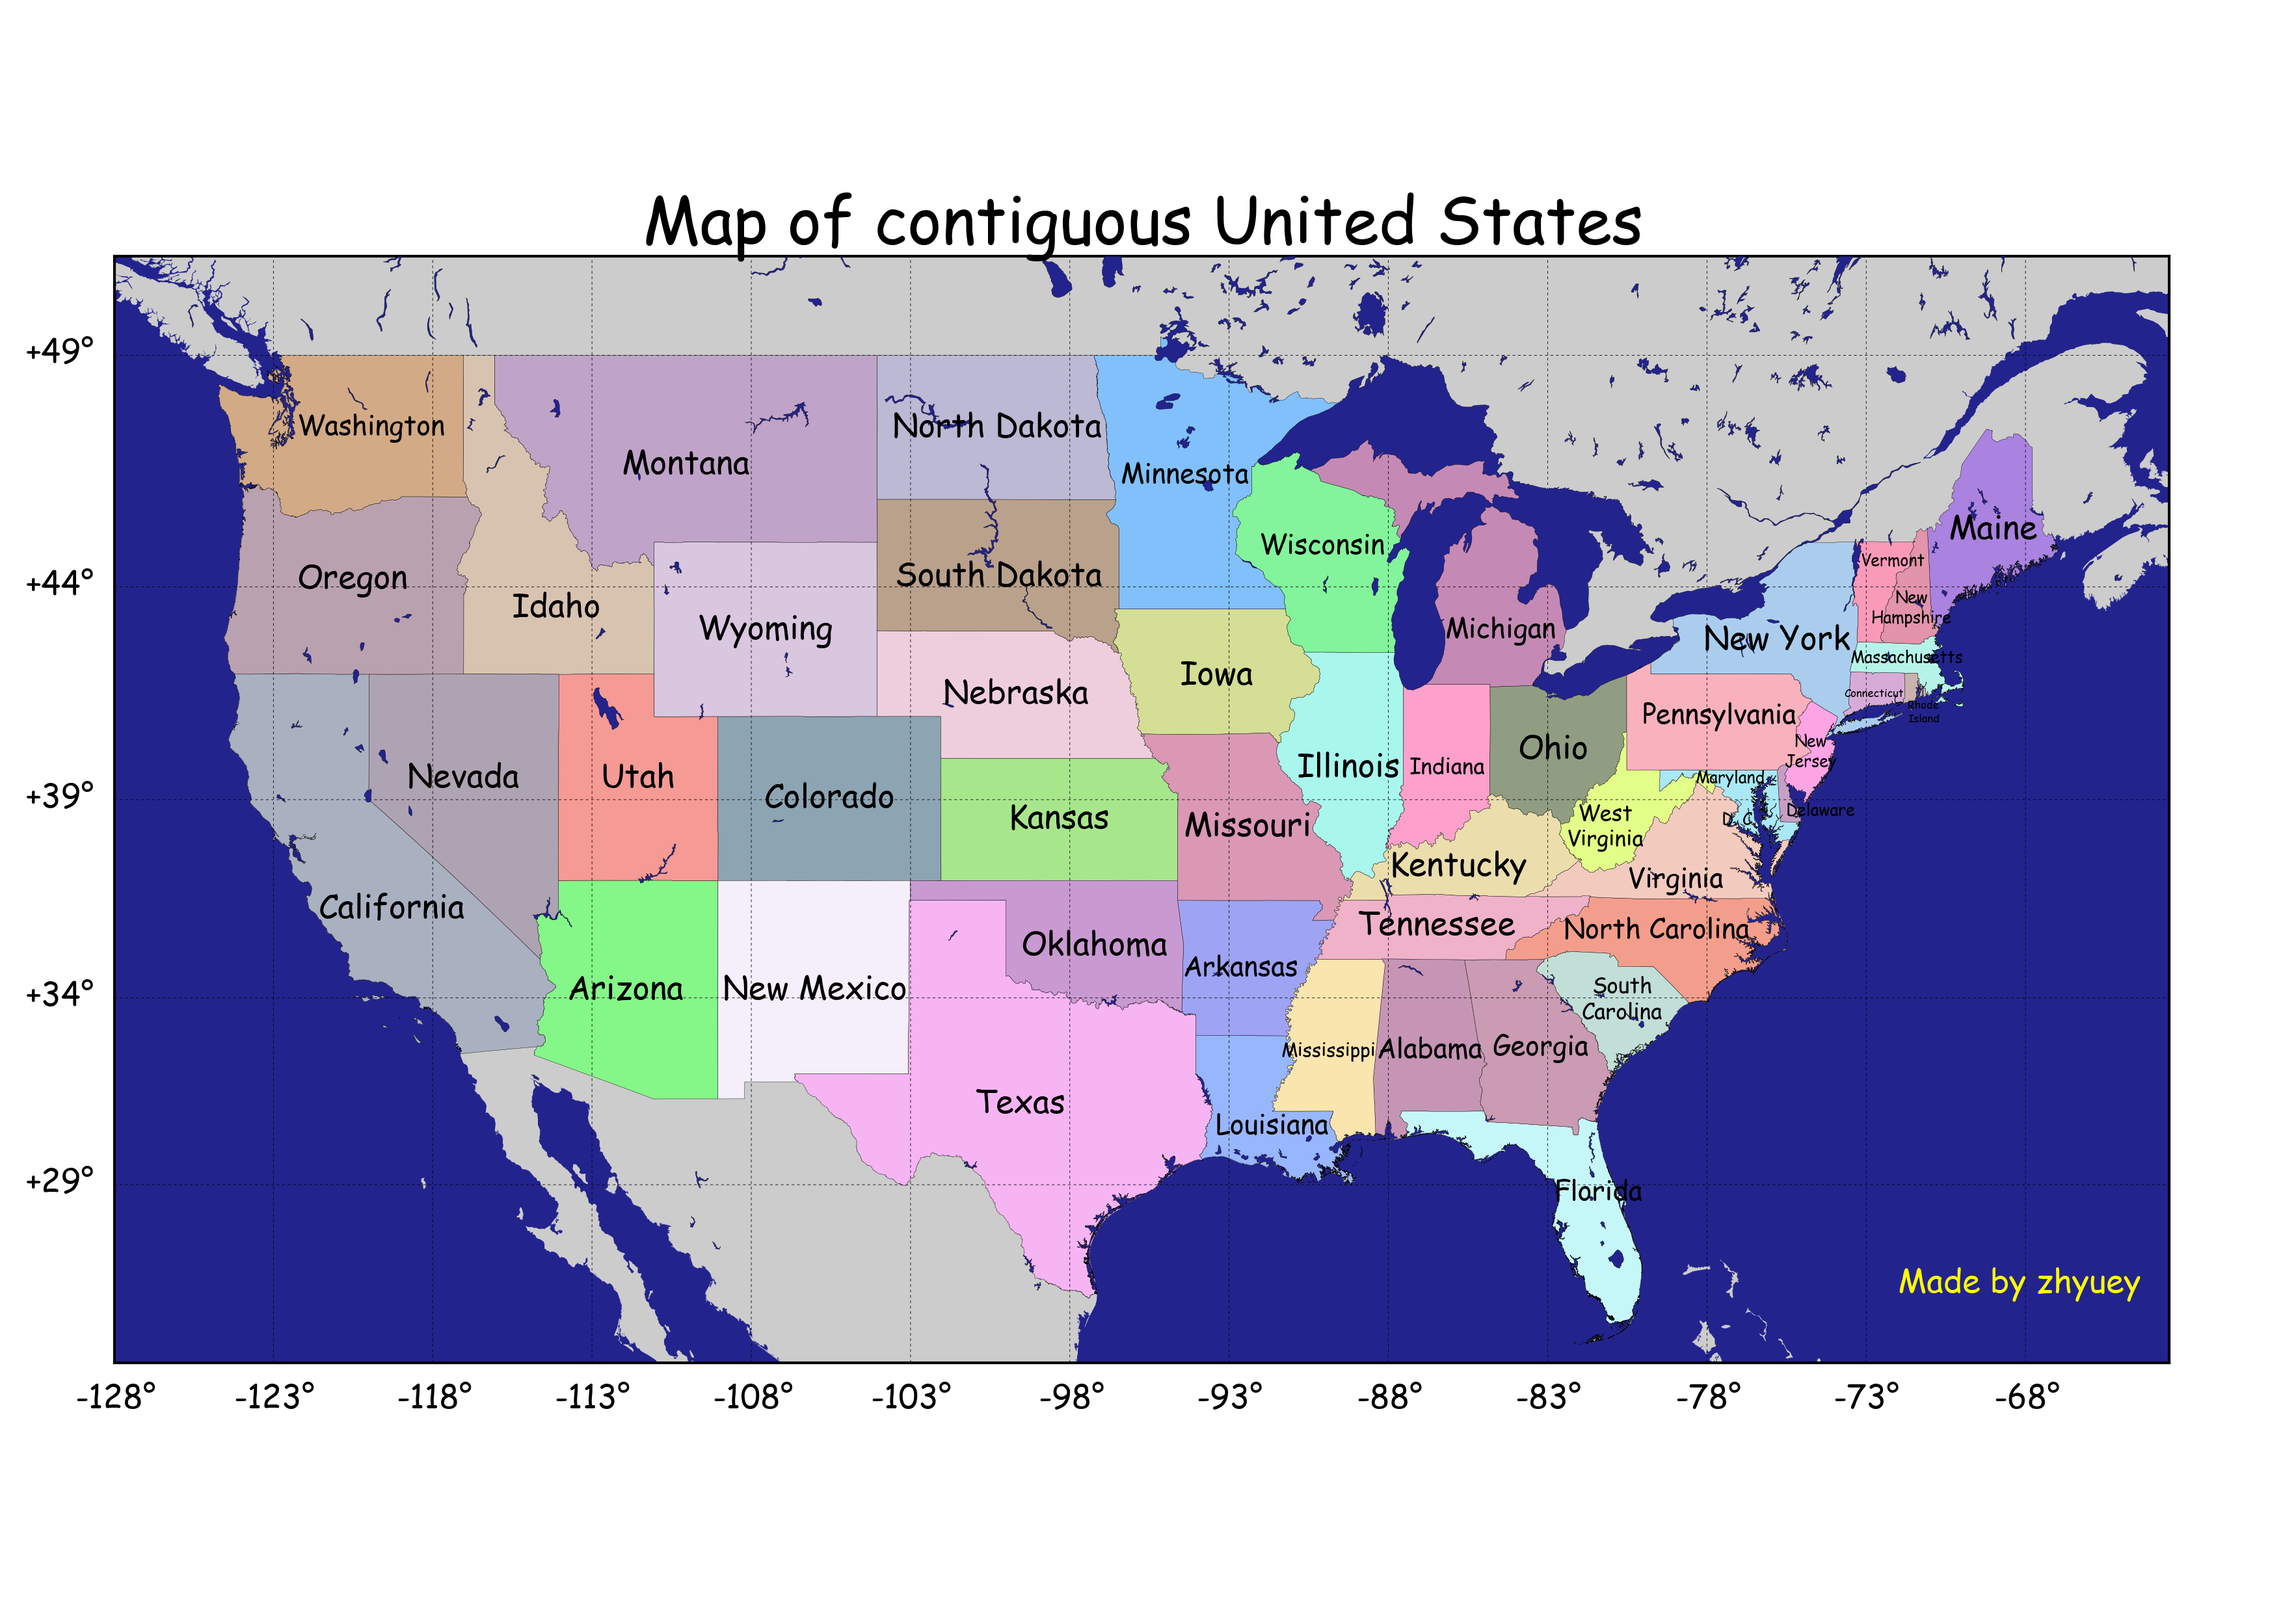
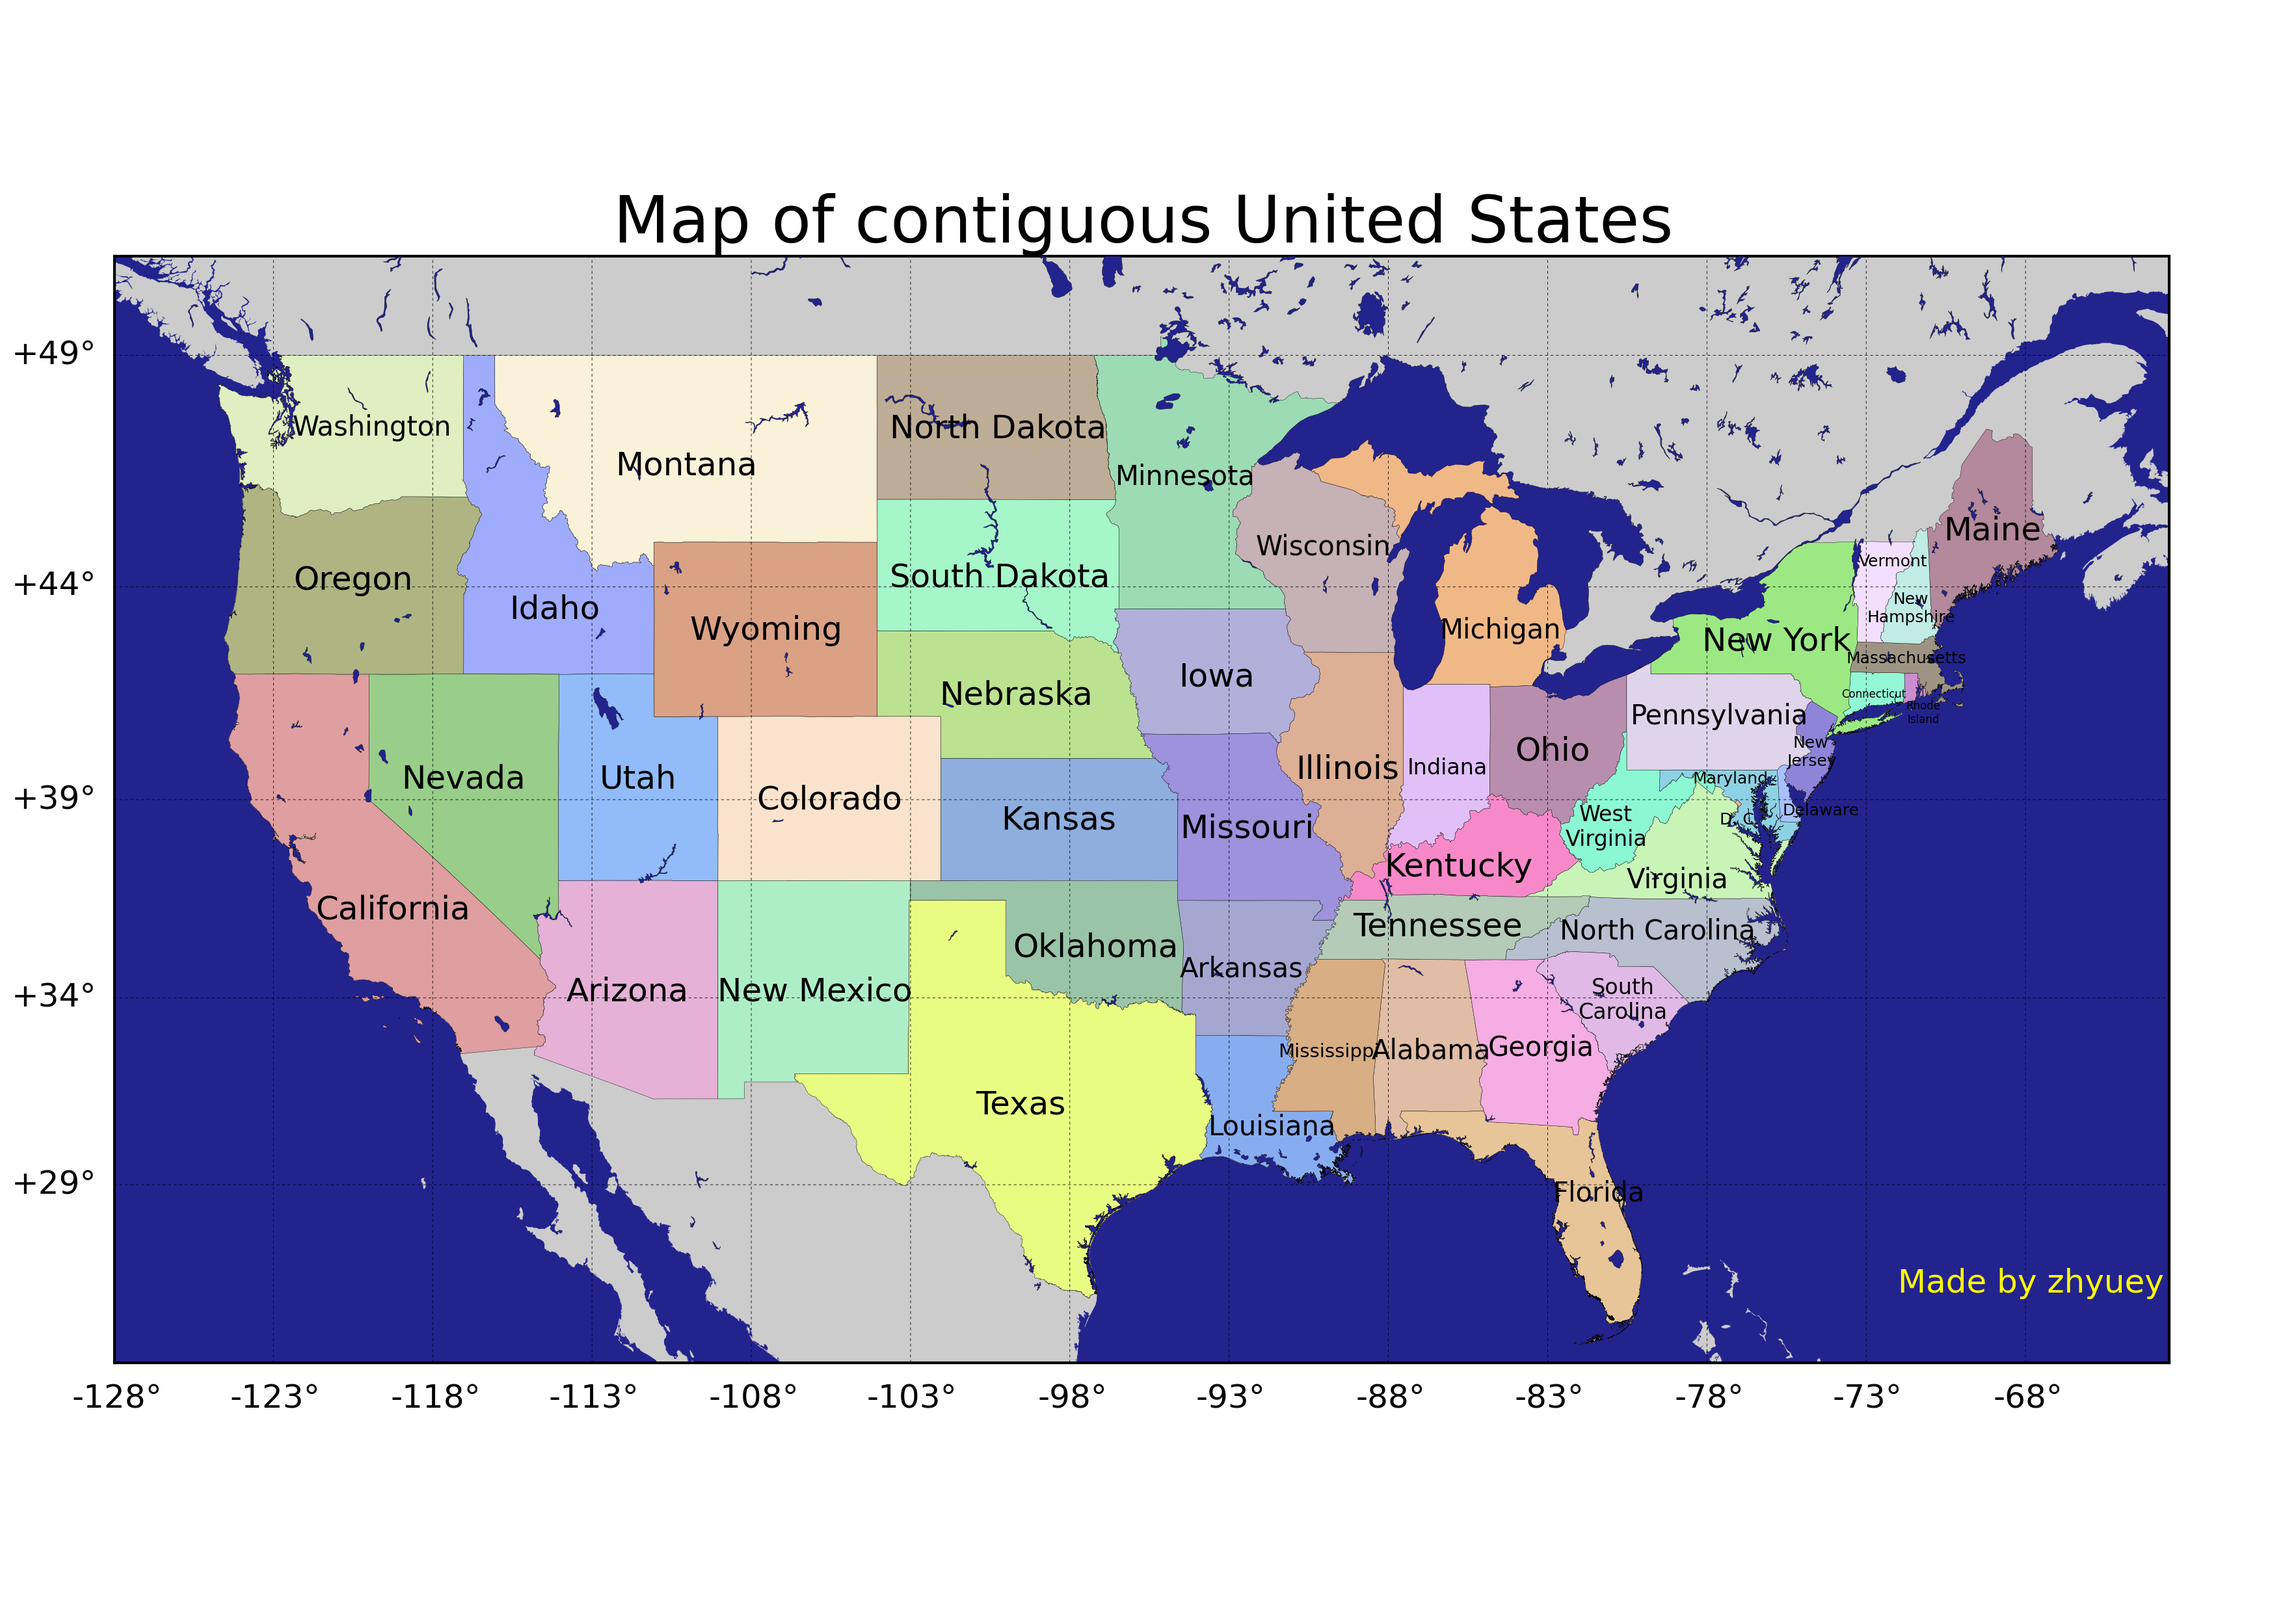
python 3 compatible, Linux compatible

diff --git a/usa_map_general/usa_map.py b/usa_map_general/usa_map.py
@@ -4,6 +4,9 @@ from __future__ import unicode_literals
 import csv
 import shapefile
 import numpy as np
+import matplotlib as mpl
+mpl.use('Agg')
+from matplotlib import cm
 import matplotlib.pyplot as plt
 from mpl_toolkits.basemap import Basemap
 from matplotlib.patches import Polygon
@@ -14,9 +17,7 @@ from matplotlib.font_manager import FontProperties
 
 
 
-import matplotlib as mpl
-from matplotlib import cm
-mpl.rcParams['font.family'] = 'Comic Sans MS'
+mpl.rcParams['font.family'] = 'Sans Serif'
 
 thisblue = '#23238e'
 fig = plt.figure(figsize=(11.7, 8.3))
@@ -45,7 +46,7 @@ m.drawmeridians(np.arange(x1, x2, 5.), labels=[
 
 
 
-r = shapefile.Reader("usa_adm1")
+r = shapefile.Reader("USA_adm1")
 shapes = r.shapes()
 records = r.records()
 
@@ -54,11 +55,11 @@ records = r.records()
 
 cnt = 0
 for record, shape in zip(records, shapes):
-    print cnt
-    
+    print(cnt)
+
     lons,lats = zip(*shape.points)
     data = np.array(m(lons, lats)).T
- 
+
     if len(shape.parts) == 1:
         segs = [data,]
     else:
@@ -68,7 +69,7 @@ for record, shape in zip(records, shapes):
             index2 = shape.parts[i]
             segs.append(data[index:index2])
         segs.append(data[index2:])
-         
+
     lines = LineCollection(segs,antialiaseds=(1,))
     lines.set_facecolors(np.random.rand(3, 1) * 0.5 + 0.5)
     lines.set_edgecolors('k')
@@ -77,7 +78,7 @@ for record, shape in zip(records, shapes):
     cnt += 1
 
 
-infile = file('state_info_revised.csv','r')
+infile = open('state_info_revised.csv','r')
 csvfile = csv.reader(infile)
 
 
@@ -106,4 +107,4 @@ plt.title('Map of contiguous United States', fontsize=24)
 plt.savefig('usa_state_300.png', dpi=300)
 # plt.savefig('usa_state_600.png', dpi=600)
 
-    
+
